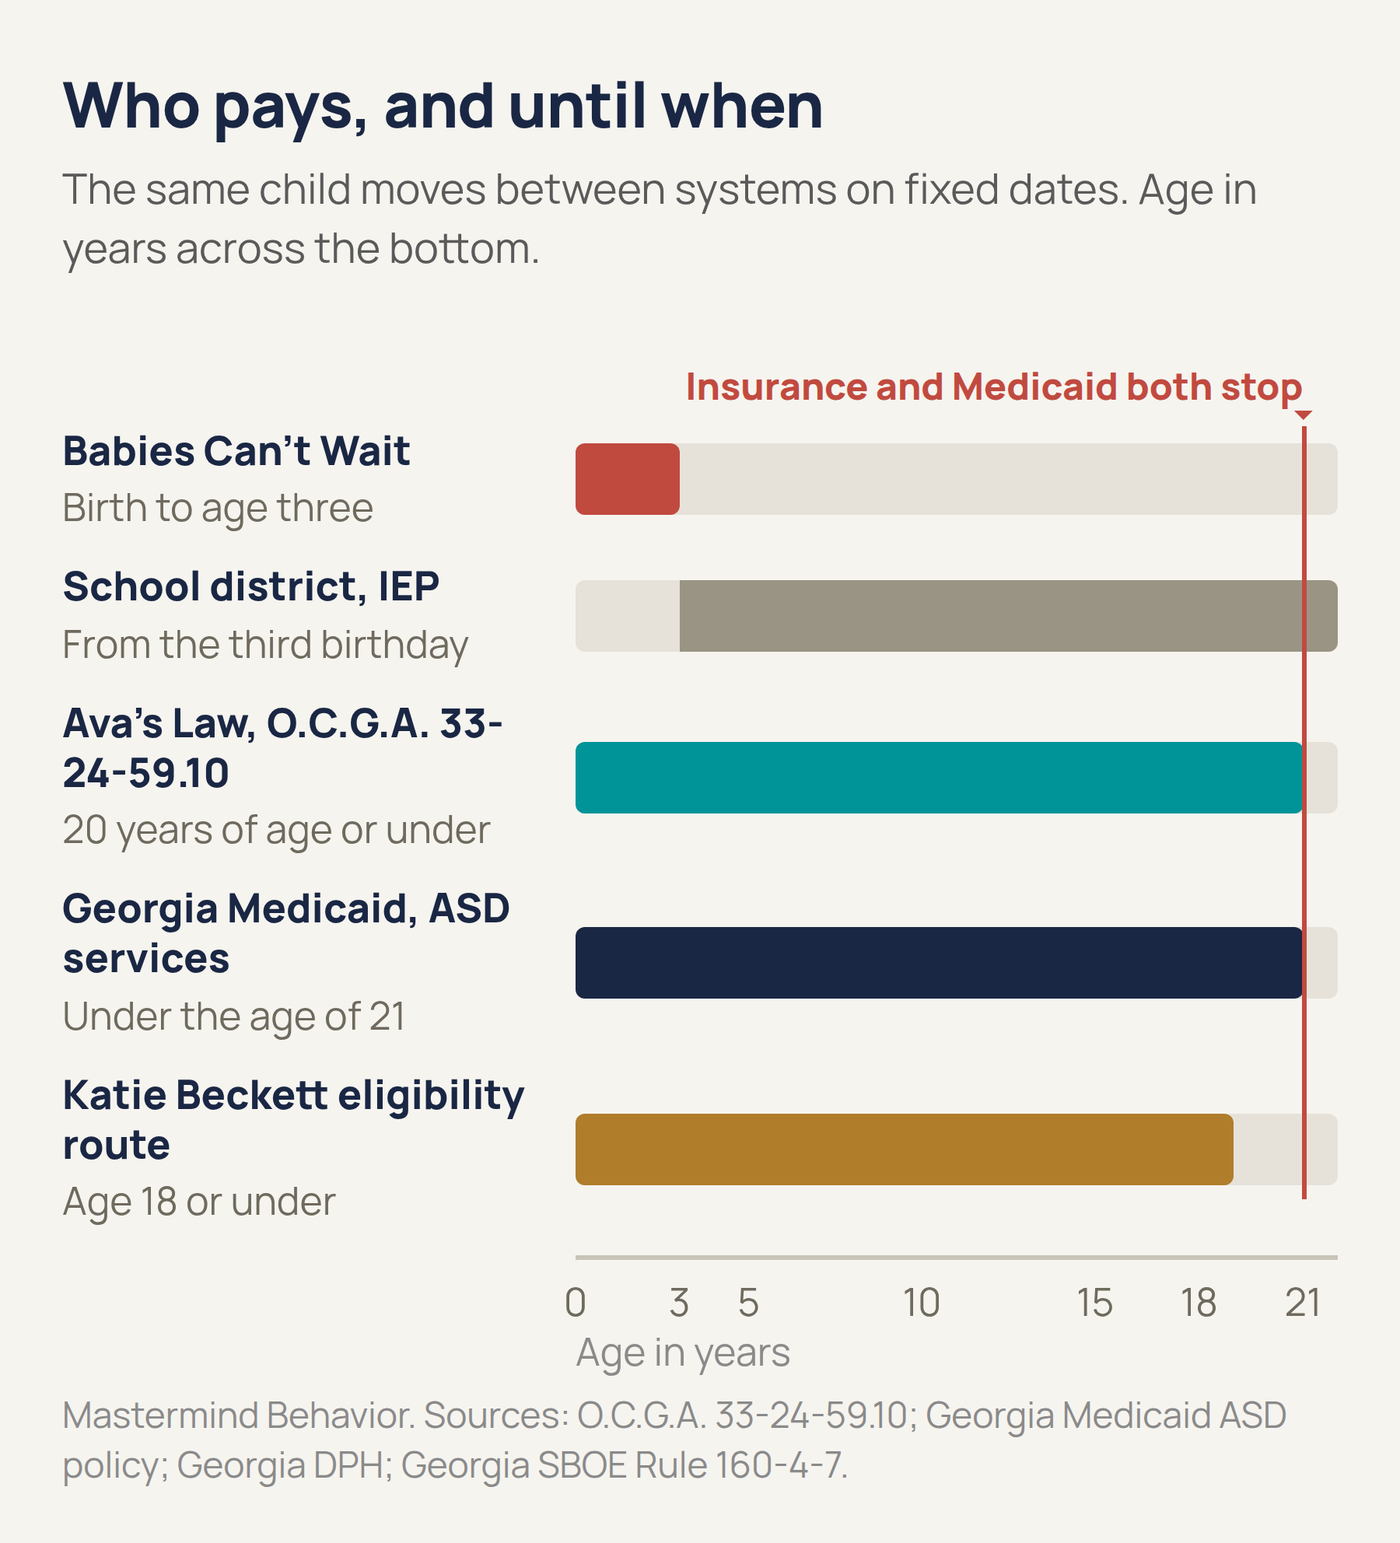
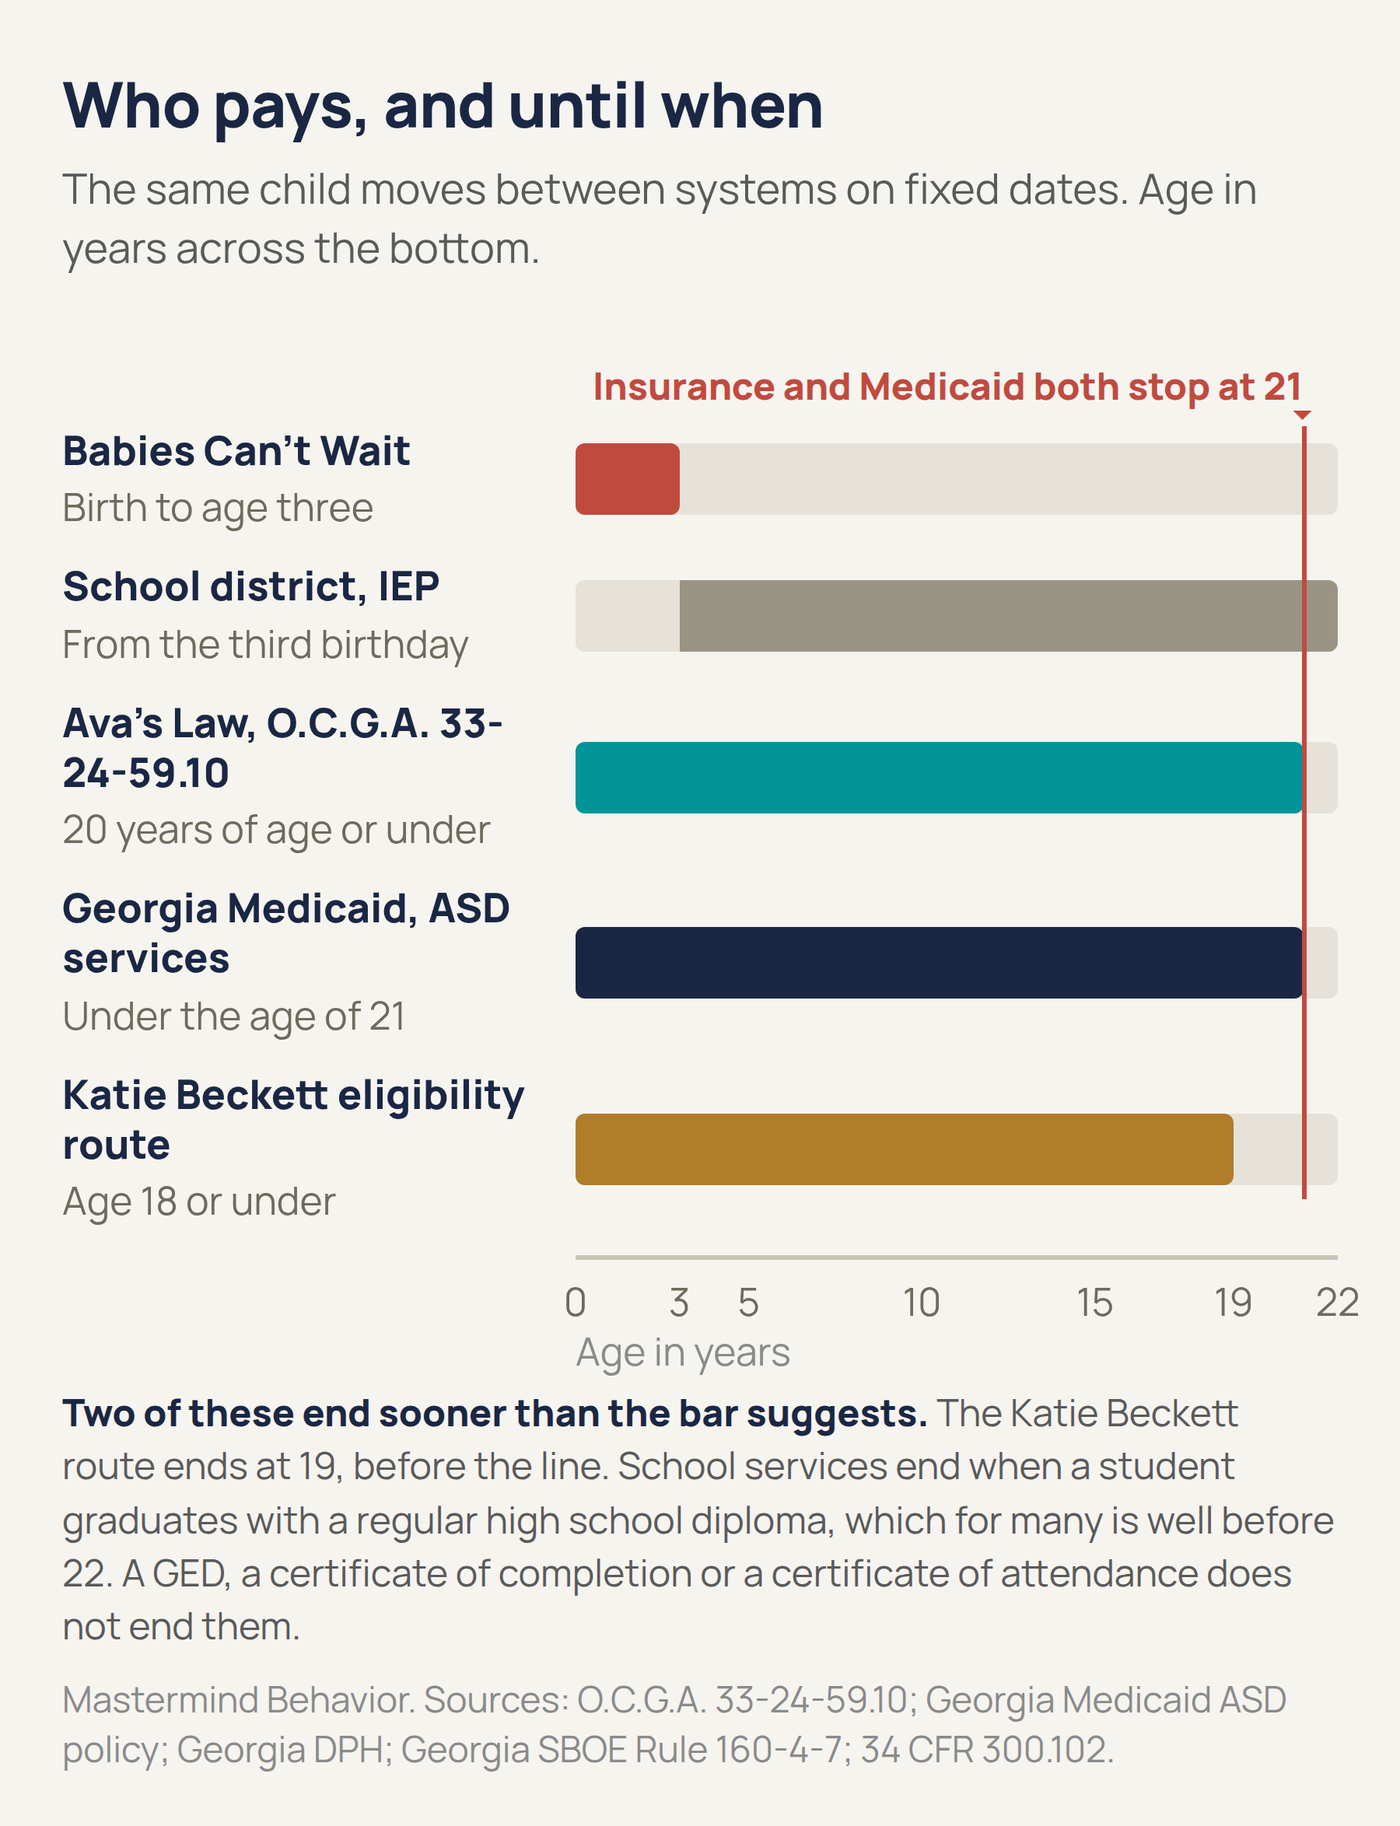
Derive the Georgia figure's band edges from the dataset, not from memory
Asked whether the "Who pays, and until when" chart was correct. Every band
is factually right, but the school band's endpoint was right by luck.

Four of five band edges were asserted against a sourced dataset string. The
school band's 22 was typed straight into the geometry, and the only assertion
covering it was "greater than the cliff", which 21.1 or 40 would also have
passed. The dataset's school_services block held only the start of the
obligation, so there was nothing to check it against.

22 is correct, now verified: Rule 160-4-7-.02(1)(a) makes FAPE available
"between the ages of 3 and 21, inclusive", and (1)(b) sets out what happens
to a student "receiving services upon reaching age 22".

Changes:

- Two new gated facts, school_services.age_out and .diploma_exit. The diploma
  exit cites 34 CFR 300.102(a)(3)(i) rather than Chapter 160-4-7, because two
  reads of the Georgia subsection returned the graduation provision tangled
  with 160-4-7-.02(2)(a), which is a limitation for incarcerated students.
  Citing that as the general rule would have been worse than the original bug.

- Every right edge now derives from dataset prose via edge(), which regexes
  the age out of the sourced value and applies the offset that turns an
  inclusive age into an exclusive edge. A dataset correction now moves the
  figure or breaks the build.

- New gate: every band edge must be readable, either a tick or the marked
[…]

Changed region(s): [[0.0311, 0.2188, 0.9644, 0.9688], [0.4044, 0.1875, 0.9644, 0.5625], [0.0311, 0.0312, 0.9022, 0.1875]]

diff --git a/content/blog/guides/figures/ga-who-pays-when.html b/content/blog/guides/figures/ga-who-pays-when.html
@@ -23,11 +23,13 @@ h2{font-size:40px;font-weight:800;color:#1a2744;letter-spacing:-.01em;line-heigh
 .axis .line{position:absolute;top:0;left:0;right:0;height:3px;background:#c9c4b8}
 .tk{position:absolute;top:12px;transform:translateX(-50%);font-size:25px;color:#6f6a5e;white-space:nowrap}
 .unit{position:absolute;top:44px;left:0;font-size:25px;color:#8a8a8a}
-.credit{margin-top:16px;font-size:23px;color:#8a8a8a}
+.caveat{margin-top:14px;font-size:24px;line-height:1.42;color:#5a5a5a}
+.caveat b{font-weight:800;color:#1a2744}
+.credit{margin-top:14px;font-size:23px;color:#8a8a8a}
 </style></head><body>
 <h2>Who pays, and until when</h2>
 <div class="sub">The same child moves between systems on fixed dates. Age in years across the bottom.</div>
-<div class="lane"><div class="markl" style="left:95.45%">Insurance and Medicaid both stop</div></div>
+<div class="lane"><div class="markl" style="left:95.45%">Insurance and Medicaid both stop at 21</div></div>
 <div class="plot">
 <div class="row">
   <div class="lab"><b>Babies Can't Wait</b><span>Birth to age three</span></div>
@@ -47,8 +49,9 @@ h2{font-size:40px;font-weight:800;color:#1a2744;letter-spacing:-.01em;line-heigh
 </div>
   <div class="markwrap"><div class="mark" style="left:95.45%"></div></div>
 </div>
-<div class="axis"><div class="line"></div><div class="tk" style="left:0.0%">0</div><div class="tk" style="left:13.64%">3</div><div class="tk" style="left:22.73%">5</div><div class="tk" style="left:45.45%">10</div><div class="tk" style="left:68.18%">15</div><div class="tk" style="left:81.82%">18</div><div class="tk" style="left:95.45%">21</div>
+<div class="axis"><div class="line"></div><div class="tk" style="left:0.0%">0</div><div class="tk" style="left:13.64%">3</div><div class="tk" style="left:22.73%">5</div><div class="tk" style="left:45.45%">10</div><div class="tk" style="left:68.18%">15</div><div class="tk" style="left:86.36%">19</div><div class="tk" style="left:100.0%">22</div>
   <div class="unit">Age in years</div>
 </div>
-<div class="credit">Mastermind Behavior. Sources: O.C.G.A. 33-24-59.10; Georgia Medicaid ASD policy; Georgia DPH; Georgia SBOE Rule 160-4-7.</div>
+<div class="caveat"><b>Two of these end sooner than the bar suggests.</b> The Katie Beckett route ends at 19, before the line. School services end when a student graduates with a regular high school diploma, which for many is well before 22. A GED, a certificate of completion or a certificate of attendance does not end them.</div>
+<div class="credit">Mastermind Behavior. Sources: O.C.G.A. 33-24-59.10; Georgia Medicaid ASD policy; Georgia DPH; Georgia SBOE Rule 160-4-7; 34 CFR 300.102.</div>
 </body></html>

diff --git a/tools/blog/build-ga-figures.py b/tools/blog/build-ga-figures.py
@@ -2,35 +2,82 @@
 """Generate the Georgia funding figure. Geometry is computed here, written into
 the HTML, then re-derived from the published values and asserted. Every label
 that makes a claim is checked against the dataset field it came from."""
-import json, pathlib, sys
+import json, pathlib, sys, re
 
 DATA = json.load(open('data/funding/georgia.json'))
 OUT = pathlib.Path(sys.argv[1] if len(sys.argv) > 1 else '.')
 errs = []
 
-def need(text, path, why):
-    """Assert a claim appears in the dataset value it is supposed to come from."""
+
+def field(path):
     node = DATA
     for k in path.split('.'):
         node = node[int(k)] if k.isdigit() else node[k]
-    if text not in node['value']:
+    return node
+
+
+def need(text, path, why):
+    """Assert a claim appears in the dataset value it is supposed to come from."""
+    if text not in field(path)['value']:
         errs.append(f'{why}: {text!r} not in {path}')
+
+
+WORDS = {'three': 3}
+
+
+def edge(path, pattern, offset, why):
+    """Derive a band's exclusive right edge from the dataset prose.
+
+    Bands used to carry hardcoded end years. Four of the five happened to be
+    right; the school band's 22 was a number typed straight into the geometry
+    with nothing behind it, and the only assertion covering it was "greater
+    than the cliff", which 21.1 would also have passed. Deriving the edge means
+    a dataset correction moves the figure or breaks the build, rather than the
+    chart quietly disagreeing with the guide printed beside it.
+
+    offset is what turns an inclusive age into an exclusive edge: "20 years of
+    age or under" runs until the 21st birthday, so offset 1.
+    """
+    m = re.search(pattern, field(path)['value'], re.I)
+    if not m:
+        errs.append(f'{why}: {pattern!r} does not match {path}, cannot derive the edge')
+        return None
+    tok = m.group(1).lower()
+    n = WORDS.get(tok, None)
+    if n is None:
+        n = int(tok)
+    return float(n + offset)
 
 # ---------------------------------------------------------------- geometry
 AX0, AX1 = 0.0, 22.0
 def x(years):
     return round((years - AX0) / (AX1 - AX0) * 100, 2)
 
+# Every right edge is derived from the dataset prose, never typed here.
+E_EI     = edge('early_intervention.age_range',  r'birth to (three|\d+) years', 0,
+                'early intervention end')
+E_SCHOOL = edge('school_services.age_out',       r'ages of 3 and (\d+), inclusive', 1,
+                'school end')
+E_MAND   = edge('mandate.age_limit',             r'(\d+) years of age or under', 1,
+                'mandate end')
+E_MCD    = edge('medicaid.age_limit',            r'under the age of (\d+)', 0,
+                'medicaid end')
+E_KB     = edge('waivers.0.population',          r'(\d+) or under', 1,
+                'katie beckett end')
+
 # (label, note, start, end, colour, open_ended)
 BANDS = [
-    ("Babies Can't Wait",                'Birth to age three',        0.0,  3.0,  '#c14a3f', False),
-    ('School district, IEP',             'From the third birthday',   3.0,  22.0, '#9a9484', False),
-    ("Ava's Law, O.C.G.A. 33-24-59.10",  '20 years of age or under',  0.0,  21.0, '#009499', False),
-    ('Georgia Medicaid, ASD services',   'Under the age of 21',       0.0,  21.0, '#1a2744', False),
-    ('Katie Beckett eligibility route',  'Age 18 or under',           0.0,  19.0, '#b07d2b', False),
+    ("Babies Can't Wait",                'Birth to age three',        0.0,  E_EI,     '#c14a3f', False),
+    ('School district, IEP',             'From the third birthday',   3.0,  E_SCHOOL, '#9a9484', False),
+    ("Ava's Law, O.C.G.A. 33-24-59.10",  '20 years of age or under',  0.0,  E_MAND,   '#009499', False),
+    ('Georgia Medicaid, ASD services',   'Under the age of 21',       0.0,  E_MCD,    '#1a2744', False),
+    ('Katie Beckett eligibility route',  'Age 18 or under',           0.0,  E_KB,     '#b07d2b', False),
 ]
-CLIFF = 21.0
-TICKS = [0, 3, 5, 10, 15, 18, 21]
+CLIFF = E_MAND
+# Ticks have to be readable, not complete: at 900px the plot gives about 22px a
+# year against a 25px label, so adjacent years collide. Every band edge is
+# either a tick or the marked cliff year, which is gated below.
+TICKS = [0, 3, 5, 10, 15, 19, 22]
 
 need('20 years of age or under', 'mandate.age_limit', 'mandate age limit')
 need('under the age of 21', 'medicaid.age_limit', 'medicaid age limit')
@@ -38,10 +85,22 @@ need('birth to three years of age', 'early_intervention.age_range', 'early inter
 need('third birthday', 'school_services.idea_part_c_to_b_transition', 'FAPE start date')
 need('18 or under', 'waivers.0.population', 'Katie Beckett age limit')
 need("Babies Can't Wait", 'early_intervention.program_name', 'early intervention programme name')
+need('between the ages of 3 and 21, inclusive', 'school_services.age_out', 'FAPE age range')
+need('regular high school diploma', 'school_services.diploma_exit', 'diploma exit')
+
+if None in (E_EI, E_SCHOOL, E_MAND, E_MCD, E_KB):
+    for e in errs:
+        print('ERROR', e)
+    sys.exit(1)
 
 # the whole point of the figure: the mandate and Medicaid end together, the school does not
 assert BANDS[2][3] == BANDS[3][3] == CLIFF, 'mandate and Medicaid must share the cliff year'
 assert BANDS[1][3] > CLIFF, 'the school band must outlast the cliff or the figure has no point'
+# a reader has to be able to read every edge off the chart
+for name, _, _, end, _, _ in BANDS:
+    if end not in TICKS and end != CLIFF:
+        errs.append(f'{name} ends at {end:g}, which is neither a tick nor the marked '
+                    f'cliff year; the reader cannot tell where the band stops')
 
 rows = []
 for name, note, a, b, colour, open_end in BANDS:
@@ -66,7 +125,9 @@ assert abs((mark_x / 100) * AX1 - CLIFF) < 0.01, 'marker drifted off the cliff y
 CANVAS, PAD, LABW = 900, 40, 330
 PLOT_L, PLOT_R = PAD + LABW, CANVAS - PAD
 MARK_PX = PLOT_L + (mark_x / 100) * (PLOT_R - PLOT_L)
-MARK_LABEL = 'Insurance and Medicaid both stop'
+# The cliff year rides in the label because it cannot be a tick: 21 and the
+# school band's 22 are one year apart, and their labels would overlap.
+MARK_LABEL = f'Insurance and Medicaid both stop at {CLIFF:g}'
 CHAR_PX = 13.2                       # Manrope 800 at 24px, measured
 label_w = len(MARK_LABEL) * CHAR_PX
 anchor_right = MARK_PX + label_w / 2 > PLOT_R
@@ -82,6 +143,23 @@ if l_left < PAD:
     errs.append(f'marker label overflows the left edge ({l_left:.0f}px < {PAD}px)')
 if l_right > CANVAS - PAD:
     errs.append(f'marker label overflows the right edge ({l_right:.0f}px > {CANVAS - PAD}px)')
+
+# ---------------------------------------------------------------- caveat
+# A bar chart of age ranges reads as a promise, and two of these bars are not
+# one. Katie Beckett stops two years before the marked cliff, and the school
+# band ends on a diploma rather than a birthday. Both numbers come out of the
+# bands so they cannot drift away from the geometry above them.
+CAVEAT = (f'<b>Two of these end sooner than the bar suggests.</b> The Katie Beckett '
+          f'route ends at {E_KB:g}, before the line. School services end when a '
+          f'student graduates with a regular high school diploma, which for many is '
+          f'well before {E_SCHOOL:g}. A GED, a certificate of completion or a '
+          f'certificate of attendance does not end them.')
+
+for needle, why in [('regular high school diploma', 'the diploma exit'),
+                    (f'ends at {E_KB:g}', 'the Katie Beckett early end'),
+                    (f'before {E_SCHOOL:g}', 'the school band end')]:
+    if needle not in CAVEAT:
+        errs.append(f'caveat does not carry {why}')
 
 fig = f'''<!doctype html><html><head><meta charset="utf-8">
 <link href="https://fonts.googleapis.com/css2?family=Manrope:wght@400;600;800&display=swap" rel="stylesheet">
@@ -108,7 +186,9 @@ h2{{font-size:40px;font-weight:800;color:#1a2744;letter-spacing:-.01em;line-heig
 .axis .line{{position:absolute;top:0;left:0;right:0;height:3px;background:#c9c4b8}}
 .tk{{position:absolute;top:12px;transform:translateX(-50%);font-size:25px;color:#6f6a5e;white-space:nowrap}}
 .unit{{position:absolute;top:44px;left:0;font-size:25px;color:#8a8a8a}}
-.credit{{margin-top:16px;font-size:23px;color:#8a8a8a}}
+.caveat{{margin-top:14px;font-size:24px;line-height:1.42;color:#5a5a5a}}
+.caveat b{{font-weight:800;color:#1a2744}}
+.credit{{margin-top:14px;font-size:23px;color:#8a8a8a}}
 </style></head><body>
 <h2>Who pays, and until when</h2>
 <div class="sub">The same child moves between systems on fixed dates. Age in years across the bottom.</div>
@@ -120,7 +200,8 @@ h2{{font-size:40px;font-weight:800;color:#1a2744;letter-spacing:-.01em;line-heig
 <div class="axis"><div class="line"></div>{ticks}
   <div class="unit">Age in years</div>
 </div>
-<div class="credit">Mastermind Behavior. Sources: O.C.G.A. 33-24-59.10; Georgia Medicaid ASD policy; Georgia DPH; Georgia SBOE Rule 160-4-7.</div>
+<div class="caveat">{CAVEAT}</div>
+<div class="credit">Mastermind Behavior. Sources: O.C.G.A. 33-24-59.10; Georgia Medicaid ASD policy; Georgia DPH; Georgia SBOE Rule 160-4-7; 34 CFR 300.102.</div>
 </body></html>'''
 
 # structural gates: the label must be in its own lane, never inside the plot

diff --git a/content/blog/guides/figures/FIGURE-AUDIT-who-pays-when.md b/content/blog/guides/figures/FIGURE-AUDIT-who-pays-when.md
@@ -1,0 +1,131 @@
+# Figure audit: "Who pays, and until when" (2026-08-13)
+
+Triggered by a direct question about the Georgia chart. The answer turned out
+to be "every band is factually right, but one of them was right by luck."
+
+## What was wrong
+
+Four of the five band endpoints were derived from an asserted dataset string.
+One was not.
+
+| Band | Ends | Was asserted against |
+| --- | --- | --- |
+| Babies Can't Wait | 3 | "birth to three years of age" |
+| Ava's Law | 21 | "20 years of age or under" |
+| Georgia Medicaid | 21 | "under the age of 21" |
+| Katie Beckett | 19 | "18 or under" |
+| **School district, IEP** | **22** | **nothing** |
+
+`data/funding/georgia.json` had a `school_services` block carrying only the
+*start* of the obligation (the third birthday). There was no age-out fact in
+it at all. The 22 was typed straight into the geometry, and the only
+assertion covering it was:
+
+    assert BANDS[1][3] > CLIFF
+
+which 21.1, or 40, would also have passed.
+
+Two further problems followed from the same place:
+
+- **The chart said school continues and never said until when.** The last
+  tick was 21 and the band ran past the marker to an unlabelled edge. The
+  entire point of the figure is the contrast at 21, and the one band that
+  survives it had an unreadable endpoint. Katie Beckett's 19 had no tick
+  either; the nearest was 18, which is the inclusive age, not the edge.
+- **The diploma exit was missing**, and that is the one that matters to a
+  parent planning around the cliff.
+
+## What the sources actually say
+
+**Georgia SBOE Rule 160-4-7-.02(1)(a):** "A free appropriate public education
+(FAPE) must be available to all children residing in the State between the
+ages of 3 and 21, inclusive."
+
+**Rule 160-4-7-.02(1)(b)** confirms the far edge: it sets out what an LEA must
+do for a student "receiving services upon reaching age 22", and requires the
+LEA to notify a student who remains after the 22nd birthday that "although
+services will continue, no individual entitlement to FAPE or other rights
+under IDEA are afforded the adult student."
+
+So 22 was correct.
+
+**34 CFR 300.102(a)(3)(i):** the FAPE obligation does not apply to "Children
+with disabilities who have graduated from high school with a regular high
+school diploma." **300.102(a)(3)(iv)** defines that narrowly as "the standard
+high school diploma awarded to the preponderance of students in the State
+that is fully aligned with State standards, or a higher diploma", and
+excludes a GED, a certificate of completion, a certificate of attendance or
+a similar lesser credential.
+
+The diploma exit was pinned to the federal rule rather than to Georgia's
+Chapter 160-4-7 on purpose. Two attempts to read the Georgia subsection back
+returned the graduation provision tangled up with 160-4-7-.02(2)(a), which is
+a **LIMITATION for incarcerated students aged 18 to 21**. Citing that as the
+general diploma rule would have been a worse error than the one being fixed,
+so the citation went to the federal regulation, which is unambiguous and is
+the controlling floor.
+
+## What changed
+
+**Dataset**, two new gated facts (37 facts to 39, all six datasets still PASS):
+`school_services.age_out` and `school_services.diploma_exit`.
+
+**Generator.** Every right edge is now derived from dataset prose rather than
+typed. `edge()` regexes the age out of the sourced value and applies the
+offset that turns an inclusive age into an exclusive edge, so "20 years of
+age or under" becomes 21. A dataset correction now moves the figure or breaks
+the build, instead of the chart quietly disagreeing with the guide printed
+beside it.
+
+New gate: every band edge must be readable, either a tick or the marked cliff
+year. Ticks changed from `0,3,5,10,15,18,21` to `0,3,5,10,15,19,22`. 21 could
+not stay a tick because at 900px the plot gives about 22px per year against a
+25px label, so 21 and 22 would collide; the cliff year moved into the marker
+label instead, which now reads "Insurance and Medicaid both stop at 21".
+
+New caveat line under the chart, with both numbers interpolated from the
+bands so they cannot drift:
+
+> **Two of these end sooner than the bar suggests.** The Katie Beckett route
+> ends at 19, before the line. School services end when a student graduates
+> with a regular high school diploma, which for many is well before 22. A
+> GED, a certificate of completion or a certificate of attendance does not
+> end them.
+
+## Verification
+
+Geometry re-derived independently from the emitted HTML, parsing the rendered
+percentages back into years rather than trusting the generator's own
+assertions. All five bands match. All four distinct edges (3, 19, 21, 22)
+are readable.
+
+Negative tests, both fire:
+
+- corrupt the dataset to "ages of 3 and 25, inclusive" and the build fails on
+  the changed quote *and* on the unreadable edge at 26
+- delete the age range from the value and the build fails because the edge
+  cannot be derived at all
+
+## Not fixed: New Jersey and North Carolina carry the same defect
+
+`build-nj-figures.py` and `build-nc-figures.py` both hardcode the school band
+at `22.0`, and neither `data/funding/new-jersey.json` nor
+`data/funding/north-carolina.json` has a `school_services` age-out field to
+check it against. Both stop their ticks at 21, so the school endpoint is
+unreadable there too, and neither carries the diploma caveat.
+
+Their bands are drawn with `open_ended=True`, which only rounds the right cap
+differently. That is a visual hint that the band continues, not a labelled
+endpoint, so it is milder than Georgia's hard stop at an unmarked 22. It is
+still the same class of defect on two live pages.
+
+Fixing them needs each state's IDEA age-out verified from its own primary
+source rather than assumed from Georgia's, since states may limit FAPE for
+ages 18 to 21 where it conflicts with state law. Not guessed here.
+
+## The lesson
+
+The gate that existed checked a *relationship* between two numbers (school
+outlasts the cliff) rather than the *provenance* of either. A relationship
+gate passes for an entire family of wrong values. Assert where a number came
+from, not just how it compares to another one.
